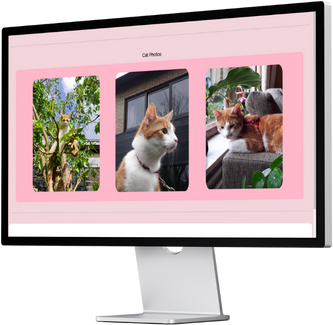
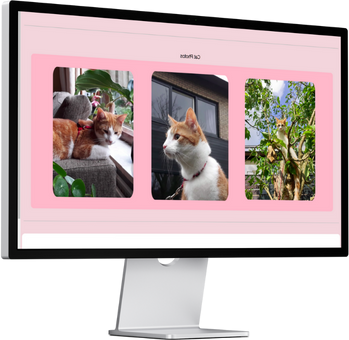
Update CSS and JavaScript files

diff --git a/script.js b/script.js
@@ -133,31 +133,28 @@ function goToElement(elementId) {
     element.scrollIntoView({ behavior: 'smooth' });
   }
 }
-
 function switchImage(id) {
   var Image_Id = document.getElementById(id);
-  Image_Id.style.transition = "all 0.5s ease-in-out";
-  Image_Id.style.transform = "rotateY(-180deg)";
-
-  setTimeout(function() {
-    if (Image_Id.src.match("img/weform-pc.png")) {
-        Image_Id.src = "img/weform-mobile.png";
-        Image_Id.style.transform = "scaleX(-1)";
-    }
-    else if (Image_Id.src.match("img/weform-mobile.png")) {
-        Image_Id.src = "img/weform-pc.png";
-        Image_Id.style.transform = "scaleX(1)";
-    }
-
-    if (Image_Id.src.match("img/kat-pc.png")) {
-      Image_Id.src = "img/kat-mobile.png";
+  if (Image_Id.src.match("img/weform-pc.png")) {
+      Image_Id.src = "img/weform-mobile.png";
+      Image_Id.style.transform = "scaleX(-1)";
+      Image_Id.style.transition = "all 0.5s ease-in-out";
+  }
+  else if (Image_Id.src.match("img/weform-mobile.png")) {
+      Image_Id.src = "img/weform-pc.png";
       Image_Id.style.transform = "scaleX(1)";
-    }
-    else if (Image_Id.src.match("img/kat-mobile.png")) {
-        Image_Id.src = "img/kat-pc.png";
-        Image_Id.style.transform = "scaleX(1)";
-    }
-  }, 450); // Wait for the rotation to finish before changing the image
+      Image_Id.style.transition = "all 0.5s ease-in-out";
+  }
+  if (Image_Id.src.match("img/kat-pc.png")) {
+    Image_Id.src = "img/kat-mobile.png";
+    Image_Id.style.transform = "scaleX(1)";
+    Image_Id.style.transition = "all 0.5s ease-in-out";
+  }
+  else if (Image_Id.src.match("img/kat-mobile.png")) {
+      Image_Id.src = "img/kat-pc.png";
+      Image_Id.style.transform = "scaleX(-1)";
+      Image_Id.style.transition = "all 0.5s ease-in-out";
+  }
 }
 
 

diff --git a/css/style.css b/css/style.css
@@ -88,7 +88,8 @@ li{
     
 }
 ul{
-  width: 60%;
+  width: 100%;
+  text-align: right;
 }
 img.me{
   width: 7%;
@@ -107,7 +108,7 @@ span.nav{
   display: flex;
   align-items: center;
   justify-content: flex-end;
-  width: 60%;
+  width: 100%;
 }
 
 a {
@@ -1116,5 +1117,9 @@ input.delete{
 
 input.add{
   --c: rgb(0, 255, 0);
+}
+
+.project-info ul{
+  text-align: left;
 }
 

diff --git a/index.php b/index.php
@@ -151,7 +151,7 @@ try {
 
     echo '<section id="project-' . $project['id'] . '" class="project ' . $project['id'] . '">';
     echo '<div class="imgContainer">';
-    echo '<img id="switch' . $projectNameContent . '" onclick="switchImage(\'switch' . $projectNameContent . '\')"  transform: scaleX(-1);" src="' . $projectImg . '" alt="">';
+    echo '<img id="switch' . $projectNameContent . '" onclick="switchImage(\'switch' . $projectNameContent . '\')"  style="' . ($project['id'] % 2 == 0 ? 'transform: scaleX(-1);' : '') . '" src="' . $projectImg . '" alt="">';
     echo '</div>';
     echo '<div class="project-info ' . ($project['id'] % 2 == 0 ? 'even' : 'odd') . '">';
     echo '<h2><a href="' . $projectIconContent . '" target="_blank" class="fa-brands fa-github gitIcon"></a>' . $projectNameContent . '</h2>';

diff --git a/subpages/admin.php b/subpages/admin.php
@@ -429,7 +429,7 @@ try {
             <div class="projectEdit">
             <span class="arrow">
                 
-                <form method="post" name="previous">
+                <form method="post" action="action.php" name="previous">
                  <input type="hidden" name="down" value="1">
                  <input <?php echo $inputDisabled?> onclick="showLoader();" type="submit" value="<">
                </form>
